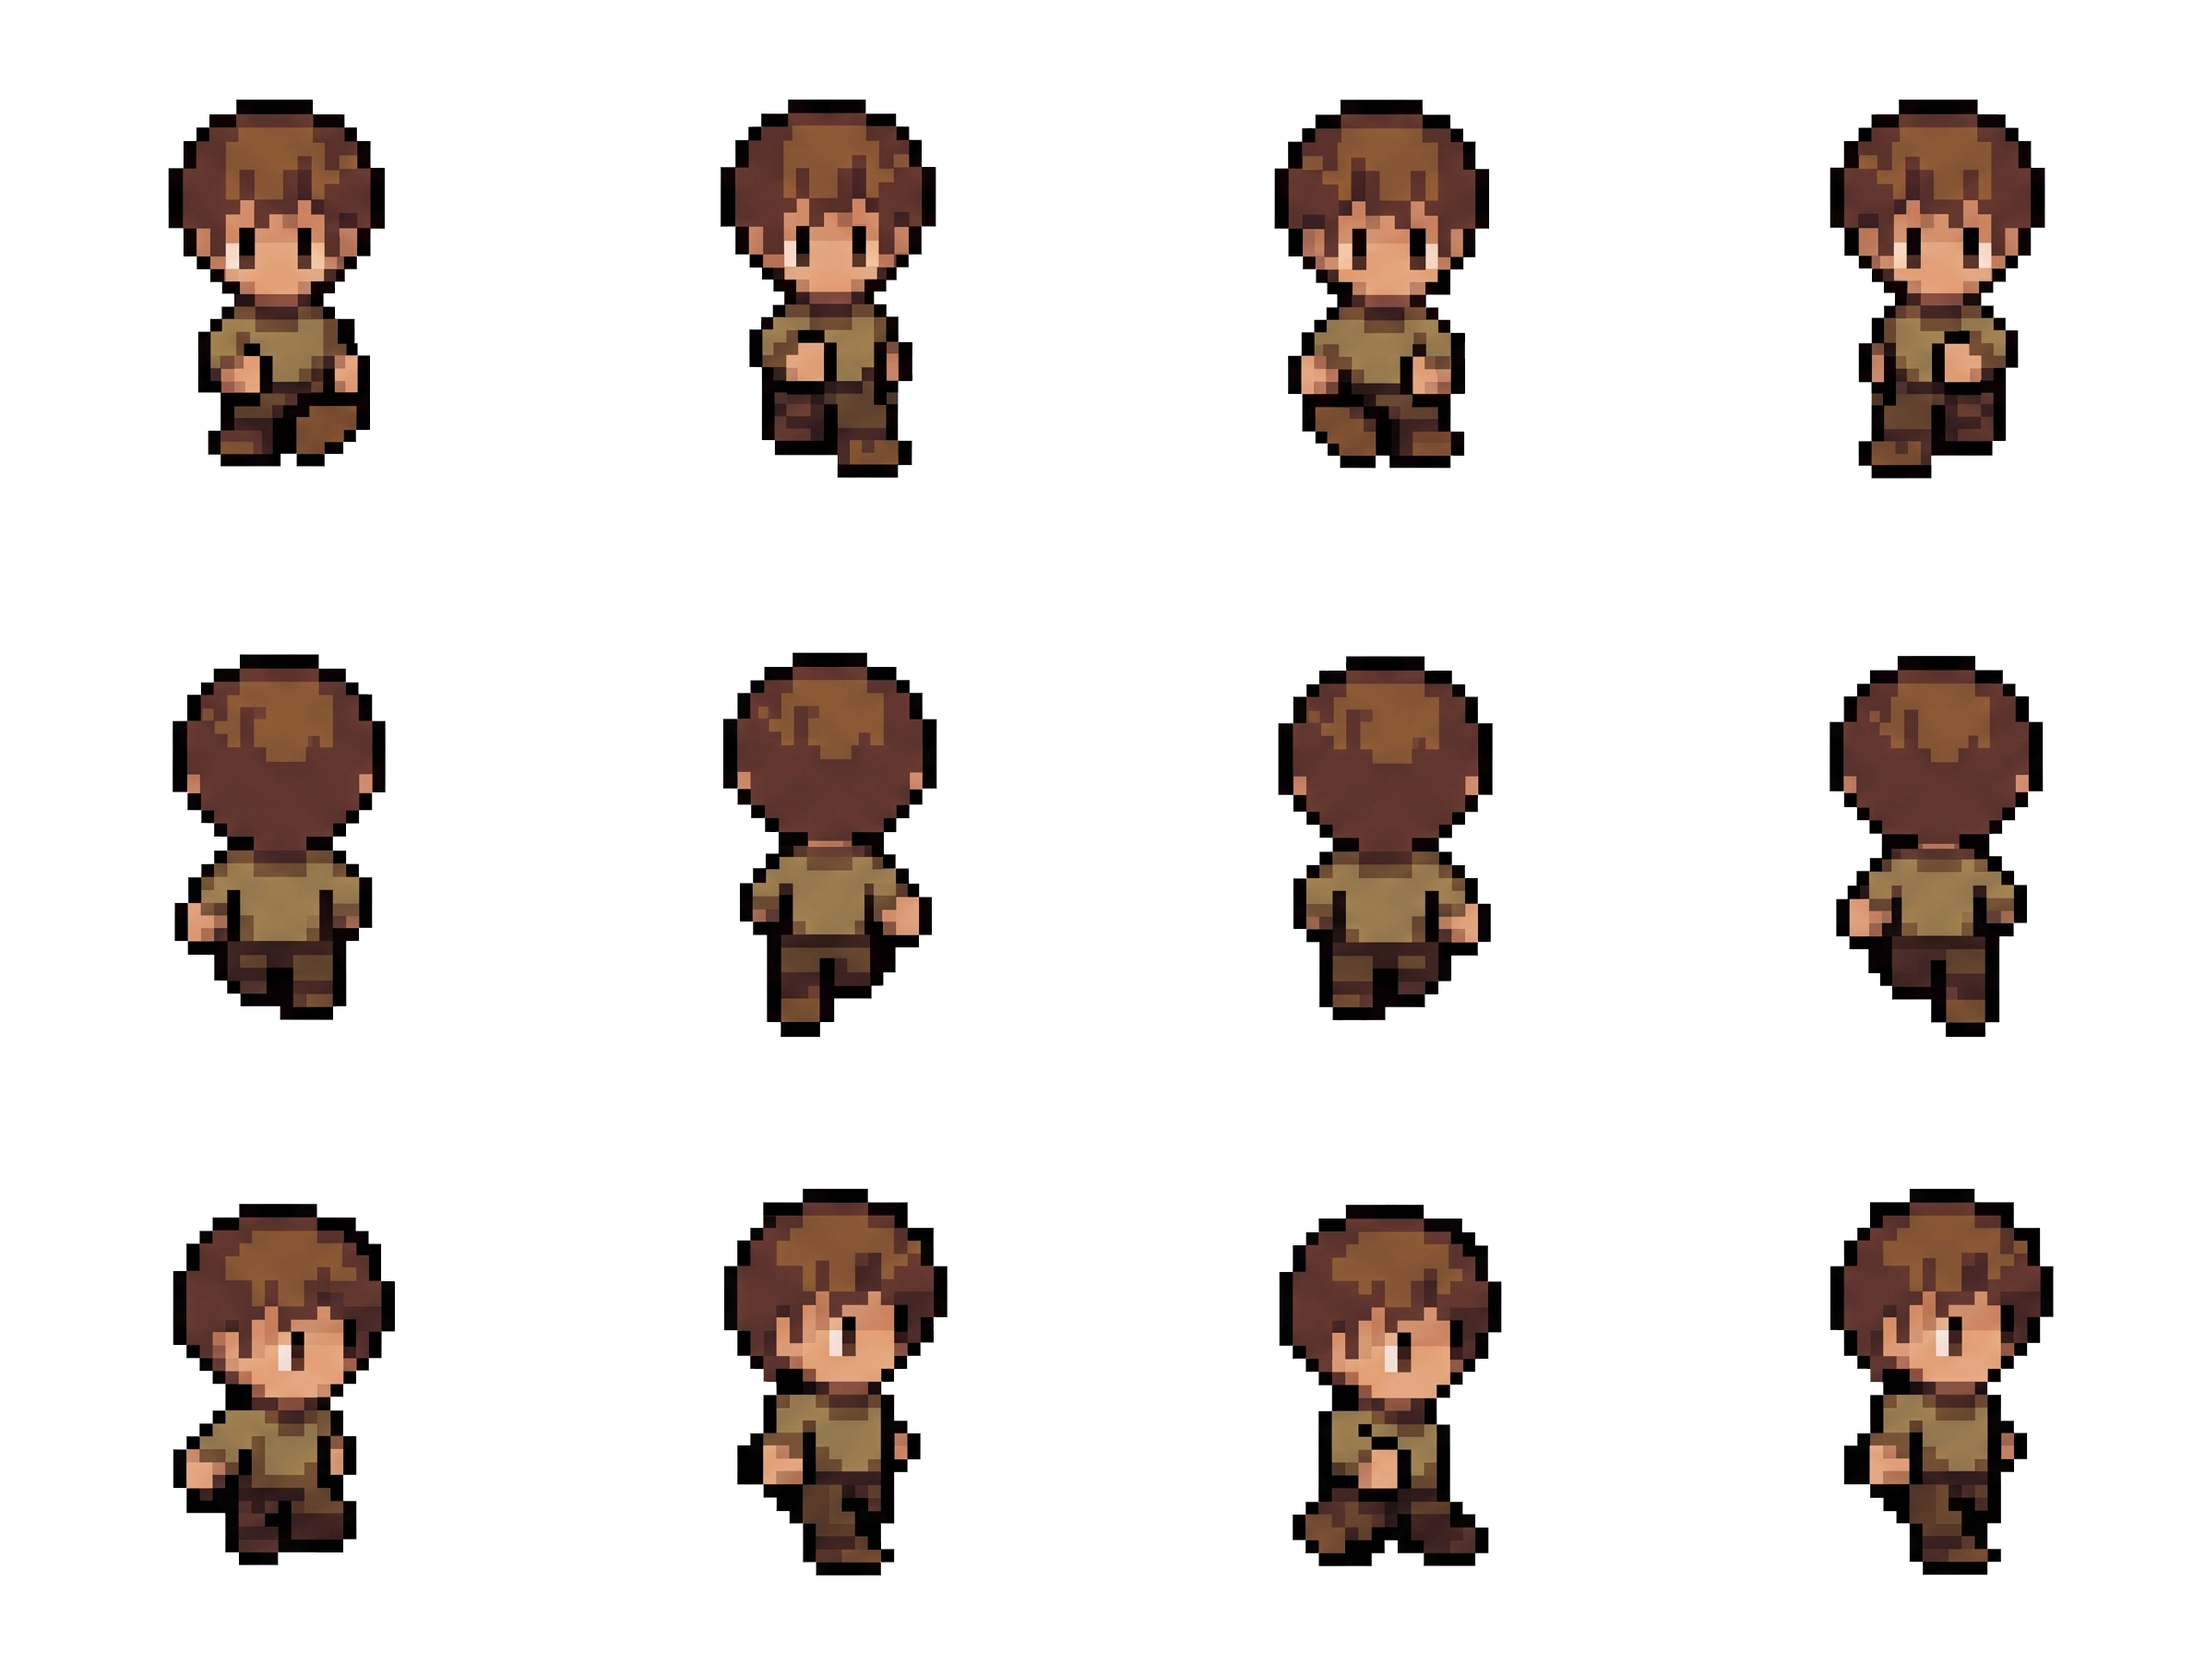
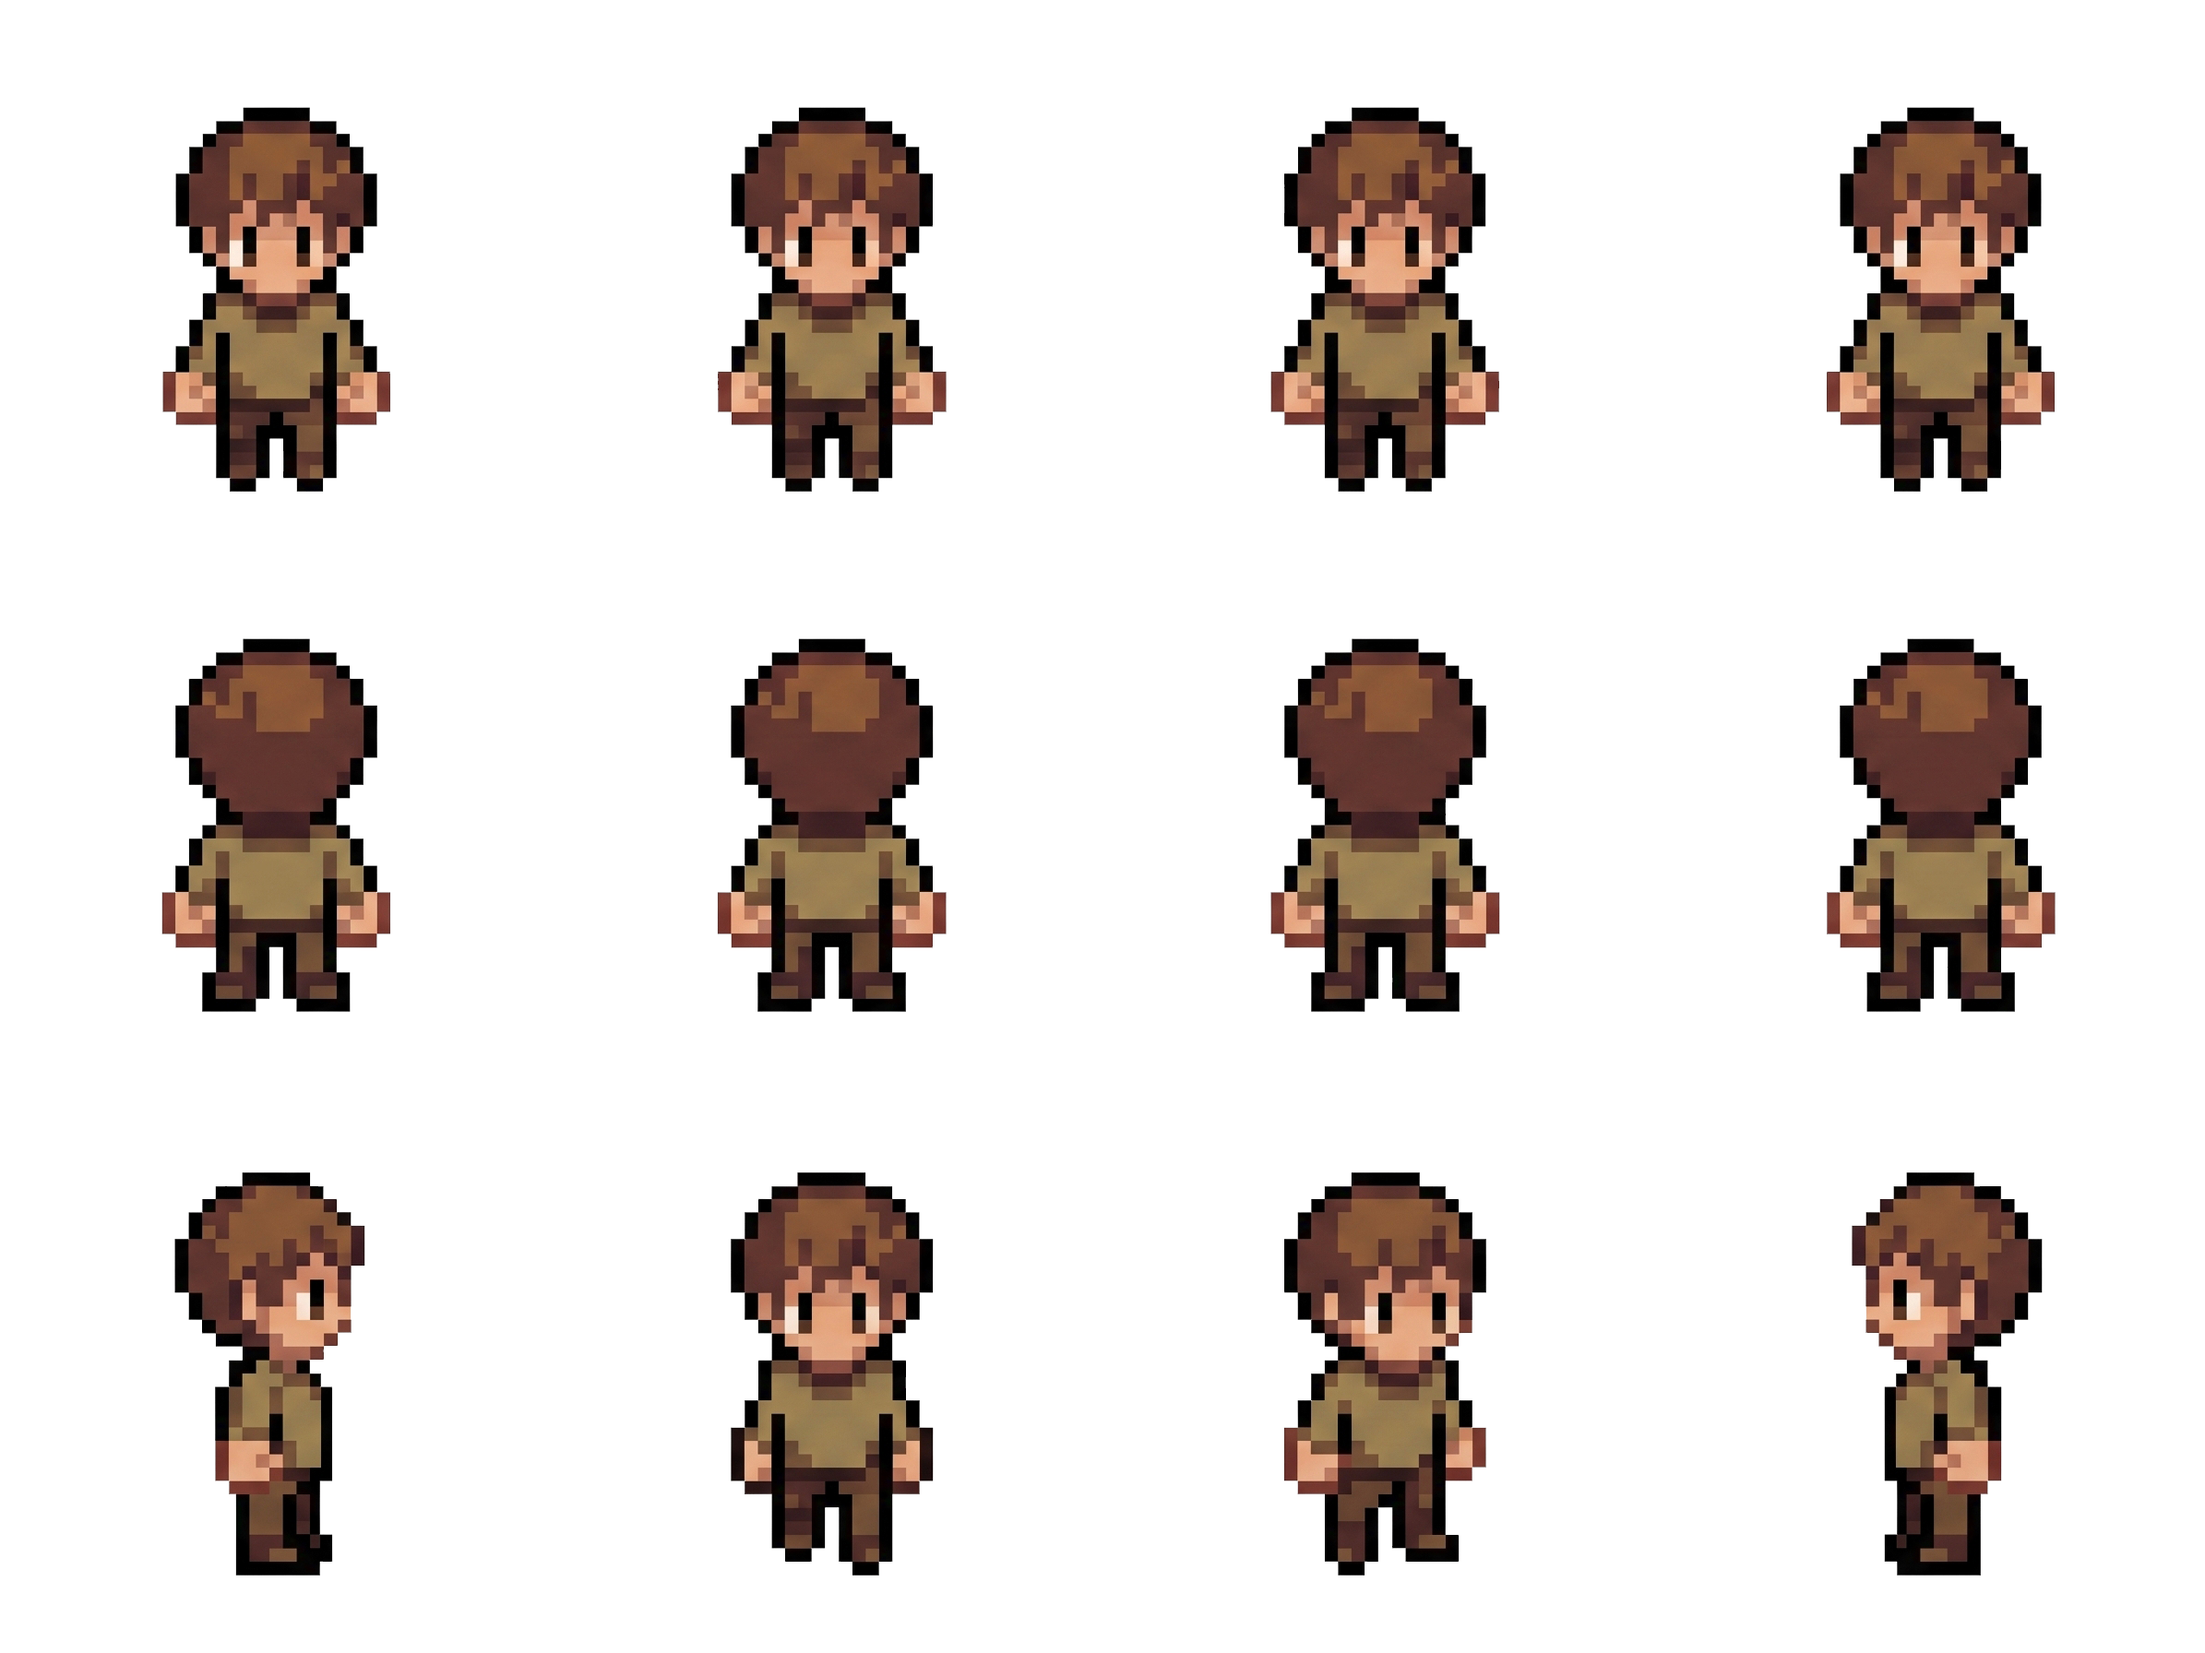
Fix idle animations and match the player's size to the other characters (#14)
* Add files via upload

* Fix Derek's idle animation using the wrong sheet row

The re-uploaded derek-idle.png now uses a down/up/side row order
(matching the player's own convention) instead of the walk sheet's
side/up/down order, so reusing one row map for both meant idle
picked frames from the wrong facing's row. Splits it into separate
walk and idle row maps.

Also verified the new derek-idle.png/girl-idle.png actually show a
standing-still pose per frame, instead of the previous sheets' full
walk-cycle poses that made "idle" read as walking in place.

Claude-Session: https://claude.ai/code/session_01NUMvPxca3phRKc9hfaEBTk

* Bump the player's scale slightly to match Derek and the girl

Measured each character's drawn content as a fraction of its own
frame: the player's sheets draw the body at ~59-63% of the 32x32
frame, while Derek's and the girl's sheets draw theirs at ~58-70% of
their (much larger) frames. At matching frame-to-tile sizing that
reads as the player being visibly smaller, so nudges the player's
scale up 10% to close the gap. Scaling happens once at construction
since, unlike Derek/the girl, the player's walk and idle sheets share
the same native frame size.

Claude-Session: https://claude.ai/code/session_01NUMvPxca3phRKc9hfaEBTk

---------

diff --git a/src/scenes/TownScene.ts b/src/scenes/TownScene.ts
@@ -14,8 +14,9 @@ import { GIRL_HOME, houseAnchors, NPC_HOME, PLAYER_START, townGrid, type HouseVa
 import {
   Npc,
   npcIdleAnimKey,
-  npcRowForFacing,
+  npcIdleRowForFacing,
   npcWalkAnimKey,
+  npcWalkRowForFacing,
   NPC_IDLE_FRAMES_PER_ROW,
   NPC_IDLE_SHEET,
   NPC_WALK_FRAMES_PER_ROW,
@@ -228,21 +229,22 @@ export class TownScene extends Phaser.Scene {
     const facings: PlayerFacing[] = ["down", "up", "side"];
 
     for (const facing of facings) {
-      const row = npcRowForFacing(facing);
+      const walkRow = npcWalkRowForFacing(facing);
       this.anims.create({
         key: npcWalkAnimKey(facing),
         frames: this.anims.generateFrameNumbers(NPC_WALK_SHEET, {
-          start: row * NPC_WALK_FRAMES_PER_ROW,
-          end: row * NPC_WALK_FRAMES_PER_ROW + (NPC_WALK_FRAMES_PER_ROW - 1),
+          start: walkRow * NPC_WALK_FRAMES_PER_ROW,
+          end: walkRow * NPC_WALK_FRAMES_PER_ROW + (NPC_WALK_FRAMES_PER_ROW - 1),
         }),
         frameRate: 12,
         repeat: -1,
       });
+      const idleRow = npcIdleRowForFacing(facing);
       this.anims.create({
         key: npcIdleAnimKey(facing),
         frames: this.anims.generateFrameNumbers(NPC_IDLE_SHEET, {
-          start: row * NPC_IDLE_FRAMES_PER_ROW,
-          end: row * NPC_IDLE_FRAMES_PER_ROW + (NPC_IDLE_FRAMES_PER_ROW - 1),
+          start: idleRow * NPC_IDLE_FRAMES_PER_ROW,
+          end: idleRow * NPC_IDLE_FRAMES_PER_ROW + (NPC_IDLE_FRAMES_PER_ROW - 1),
         }),
         frameRate: 5,
         repeat: -1,

diff --git a/src/game/Npc.ts b/src/game/Npc.ts
@@ -7,15 +7,21 @@ import { townGrid } from "./townMap";
 export const NPC_WALK_SHEET = "npc-derek-walk";
 export const NPC_IDLE_SHEET = "npc-derek-idle";
 
-// Both sheets are a 3-row grid (side, up, down) - a different row order than
-// the player's own sheets (down, up, side) - with 6 walk frames and 4 idle
-// frames per row, same as the player's.
-const ROW_FOR_FACING: Record<PlayerFacing, number> = { side: 0, up: 1, down: 2 };
+// Both sheets are a 3-row grid, but the two were generated separately and
+// don't agree on row order: the walk sheet is (side, up, down), while the
+// idle sheet is (down, up, side) - matching the player's own convention.
+// 6 walk frames and 4 idle frames per row, same as the player's.
+const WALK_ROW_FOR_FACING: Record<PlayerFacing, number> = { side: 0, up: 1, down: 2 };
+const IDLE_ROW_FOR_FACING: Record<PlayerFacing, number> = { down: 0, up: 1, side: 2 };
 export const NPC_WALK_FRAMES_PER_ROW = 6;
 export const NPC_IDLE_FRAMES_PER_ROW = 4;
 
-export function npcRowForFacing(facing: PlayerFacing): number {
-  return ROW_FOR_FACING[facing];
+export function npcWalkRowForFacing(facing: PlayerFacing): number {
+  return WALK_ROW_FOR_FACING[facing];
+}
+
+export function npcIdleRowForFacing(facing: PlayerFacing): number {
+  return IDLE_ROW_FOR_FACING[facing];
 }
 
 export function npcWalkAnimKey(facing: PlayerFacing): string {

diff --git a/src/game/Player.ts b/src/game/Player.ts
@@ -15,6 +15,12 @@ export function idleAnimKey(facing: PlayerFacing): string {
   return `idle-${facing}`;
 }
 
+// The player's sprite sheet draws its body a bit smaller within its 32x32
+// frame than Derek's and the girl's sheets draw theirs within their own
+// frames, so at matching frame-to-tile sizing the player reads slightly
+// smaller. Nudging it up a bit closes that gap.
+const PLAYER_SCALE = 1.1;
+
 /** Tile-grid character controller: walks a queued path one tile at a time. */
 export class Player {
   readonly sprite: Phaser.GameObjects.Sprite;
@@ -30,6 +36,7 @@ export class Player {
     const worldPos = this.tileToWorld(startTile);
     this.sprite = scene.add.sprite(worldPos.x, worldPos.y, PLAYER_IDLE_SHEET, 0);
     this.sprite.setOrigin(0.5, 0.81);
+    this.sprite.setScale(PLAYER_SCALE);
     this.sprite.play(idleAnimKey("down"), true);
   }
 
